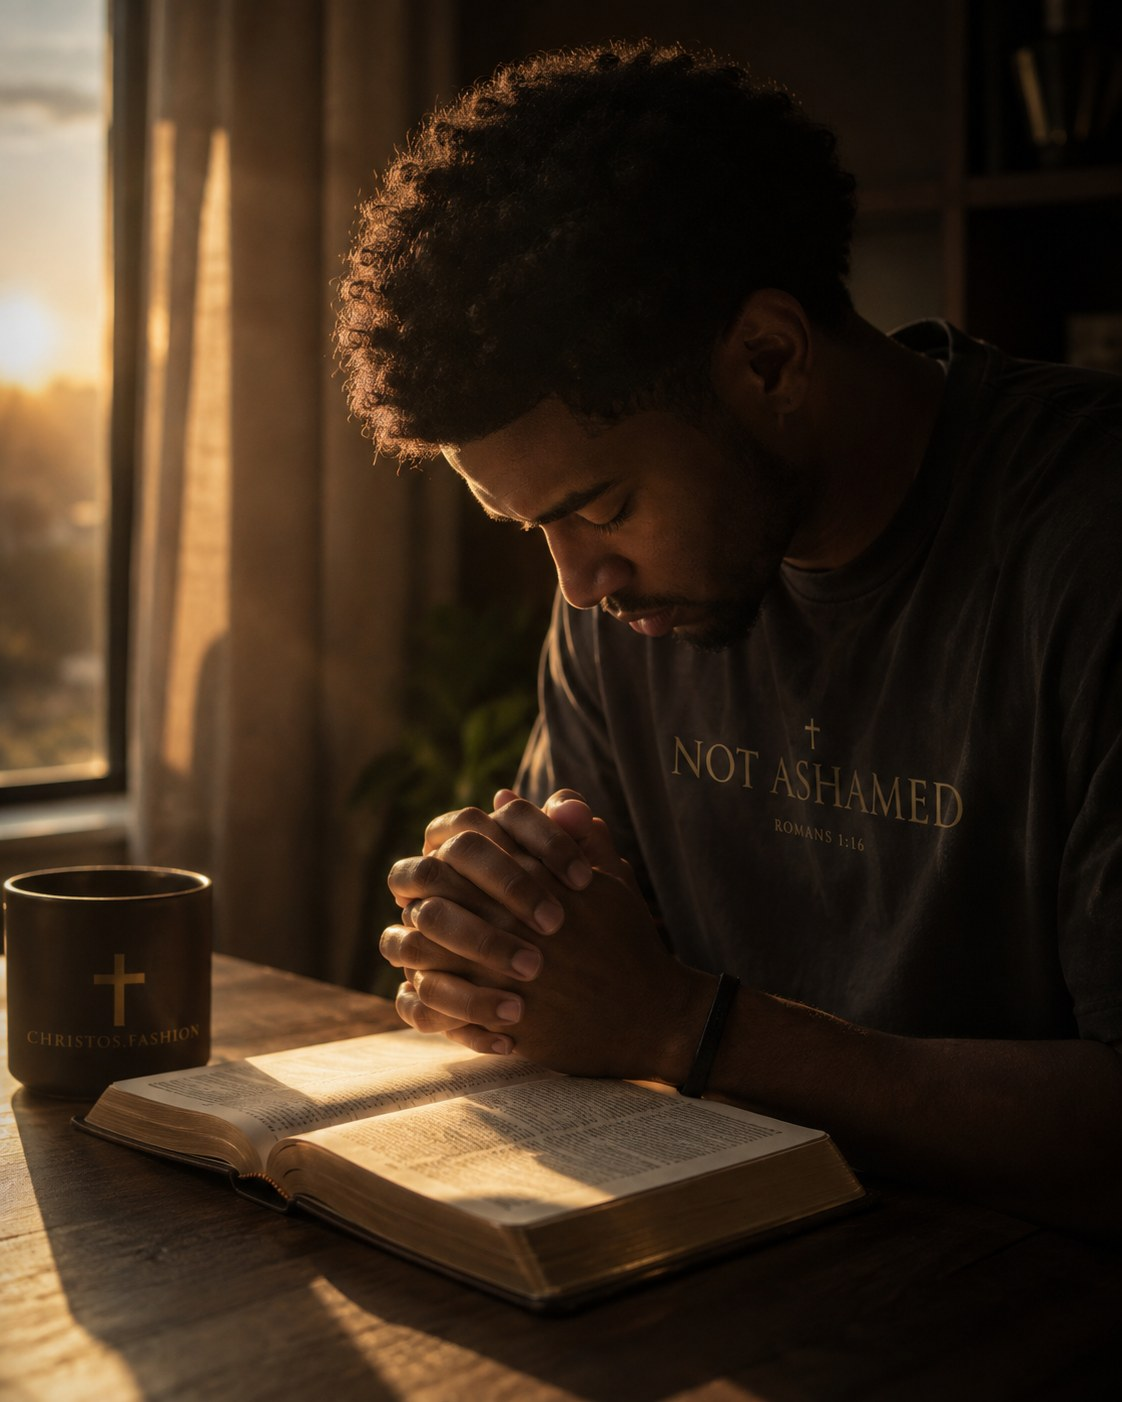
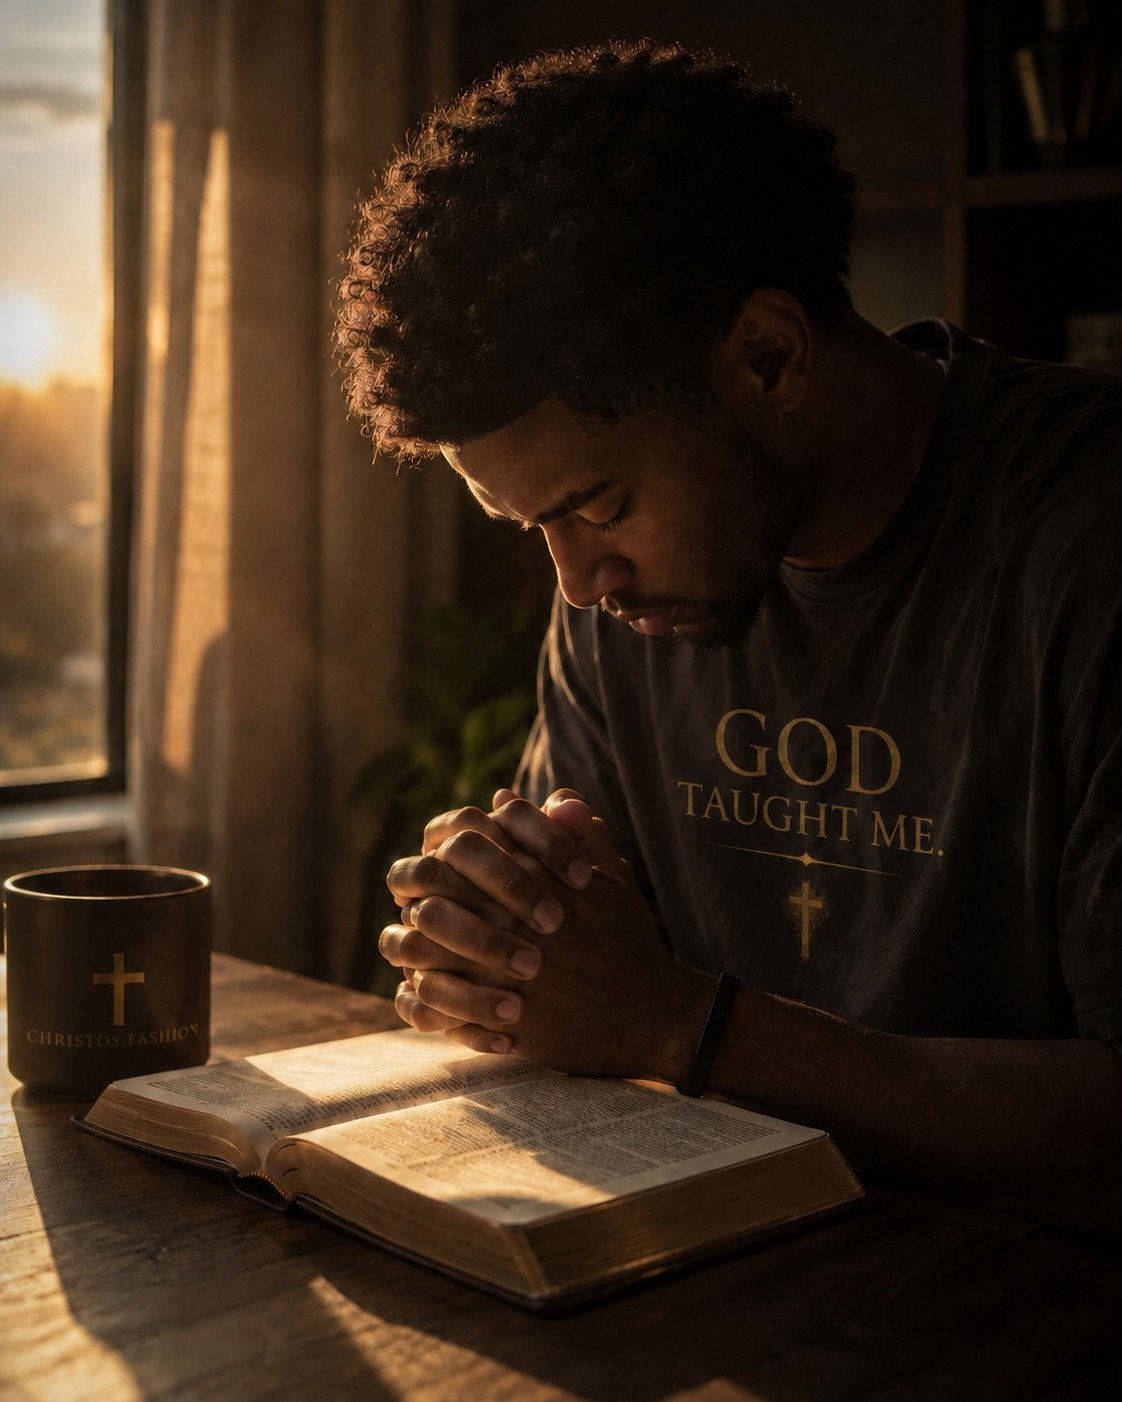
feat: integrate Christos product campaign lifestyle imagery

diff --git a/index.html b/index.html
@@ -158,32 +158,18 @@
             </div>
           </div>
 
-          <!-- PHOTO SLOTS — drop real files at these paths and they
-               replace the placeholders automatically. See
-               CHRISTOS-FASHION-2.0-REPORT.md for the full shot list. -->
+          <!-- CHRISTOS.FASHION PRODUCT CAMPAIGN PHOTOGRAPHY -->
           <div class="hero-collage reveal-scale" style="--reveal-delay:.2s">
             <figure class="photo-slot photo-slot-portrait photo-slot-primary photo-frame-gold parallax" data-parallax-range="26">
               <img src="assets/photos/hero-worship.jpg"
-                   alt="A believer with hands raised in worship, wearing a Christos.Fashion tee"
+                   alt="A believer wearing the Built by Faith shirt with hands raised at golden hour"
                    width="1200" height="1500" fetchpriority="high" decoding="async" />
-              <figcaption class="photo-slot-mark">
-                <svg viewBox="0 0 20 28" fill="currentColor" aria-hidden="true"><rect x="8" y="0" width="4" height="28"/><rect x="0" y="8" width="20" height="4"/></svg>
-                <span class="photo-slot-label">Hero · Primary</span>
-                <span class="photo-slot-hint">Hands raised in worship. Warm low light, natural grain, face partly out of frame — reverent, not posed.</span>
-                <span class="photo-slot-path">assets/photos/hero-worship.jpg · 4:5 · 1200×1500</span>
-              </figcaption>
             </figure>
 
             <figure class="photo-slot photo-slot-square photo-slot-secondary parallax" data-parallax-range="-34">
               <img src="assets/photos/hero-community.jpg"
-                   alt="Two friends in conversation, one wearing a Christos.Fashion shirt"
+                   alt="Two friends wearing Work Hard, God First and Faith Over Fear shirts sharing a conversation"
                    width="800" height="800" loading="lazy" decoding="async" />
-              <figcaption class="photo-slot-mark">
-                <svg viewBox="0 0 20 28" fill="currentColor" aria-hidden="true"><rect x="8" y="0" width="4" height="28"/><rect x="0" y="8" width="20" height="4"/></svg>
-                <span class="photo-slot-label">Hero · Community</span>
-                <span class="photo-slot-hint">Two people mid-conversation, one wearing a tee. Candid.</span>
-                <span class="photo-slot-path">assets/photos/hero-community.jpg · 1:1 · 800×800</span>
-              </figcaption>
             </figure>
           </div>
 
@@ -293,12 +279,6 @@
               <img src="assets/photos/chapter-conversation.jpg"
                    alt="Two believers in conversation at a coffee shop, one wearing a faith-based graphic tee"
                    width="1200" height="800" loading="lazy" decoding="async" />
-              <figcaption class="photo-slot-mark">
-                <svg viewBox="0 0 20 28" fill="currentColor" aria-hidden="true"><rect x="8" y="0" width="4" height="28"/><rect x="0" y="8" width="20" height="4"/></svg>
-                <span class="photo-slot-label">Chapter I · Conversation</span>
-                <span class="photo-slot-hint">Two people talking across a table, one in a Christos tee. Daylight, unstaged, mid-laugh.</span>
-                <span class="photo-slot-path">assets/photos/chapter-conversation.jpg · 3:2 · 1200×800</span>
-              </figcaption>
             </figure>
             <p class="photo-caption">Every shirt is a door someone else opens.</p>
           </div>
@@ -488,12 +468,6 @@
               <img src="assets/photos/chapter-prayer.jpg"
                    alt="A believer praying over an open Bible in morning light"
                    width="1000" height="1250" loading="lazy" decoding="async" />
-              <figcaption class="photo-slot-mark">
-                <svg viewBox="0 0 20 28" fill="currentColor" aria-hidden="true"><rect x="8" y="0" width="4" height="28"/><rect x="0" y="8" width="20" height="4"/></svg>
-                <span class="photo-slot-label">Chapter II · Quiet Morning</span>
-                <span class="photo-slot-hint">Hands folded over an open Bible, early light across the page. Stillness over drama.</span>
-                <span class="photo-slot-path">assets/photos/chapter-prayer.jpg · 4:5 · 1000×1250</span>
-              </figcaption>
             </figure>
           </div>
 
@@ -729,40 +703,19 @@
              submissions; the placeholder shows until you do. -->
         <div class="gallery-mosaic reveal">
           <figure class="photo-slot gallery-feature">
-            <img src="assets/photos/community-01.jpg" alt="A customer wearing a Christos.Fashion tee at a church gathering" width="800" height="800" loading="lazy" decoding="async" />
-            <figcaption class="photo-slot-mark">
-              <svg viewBox="0 0 20 28" fill="currentColor" aria-hidden="true"><rect x="8" y="0" width="4" height="28"/><rect x="0" y="8" width="20" height="4"/></svg>
-              <span class="photo-slot-label">Gallery · Feature</span>
-              <span class="photo-slot-path">assets/photos/community-01.jpg · 1:1</span>
-            </figcaption>
+            <img src="assets/photos/community-01.jpg" alt="A believer wearing the I Thought It Was Over, God Had Other Plans shirt at a faith gathering" width="800" height="800" loading="lazy" decoding="async" />
           </figure>
           <figure class="photo-slot">
-            <img src="assets/photos/community-02.jpg" alt="A customer wearing a Christos.Fashion hat outdoors" width="600" height="600" loading="lazy" decoding="async" />
-            <figcaption class="photo-slot-mark">
-              <svg viewBox="0 0 20 28" fill="currentColor" aria-hidden="true"><rect x="8" y="0" width="4" height="28"/><rect x="0" y="8" width="20" height="4"/></svg>
-              <span class="photo-slot-path">community-02.jpg</span>
-            </figcaption>
+            <img src="assets/photos/community-02.jpg" alt="A believer wearing the Jesus Saves hat and Built by Faith shirt outdoors at golden hour" width="600" height="600" loading="lazy" decoding="async" />
           </figure>
           <figure class="photo-slot">
-            <img src="assets/photos/community-03.jpg" alt="A family in Christos.Fashion apparel" width="600" height="600" loading="lazy" decoding="async" />
-            <figcaption class="photo-slot-mark">
-              <svg viewBox="0 0 20 28" fill="currentColor" aria-hidden="true"><rect x="8" y="0" width="4" height="28"/><rect x="0" y="8" width="20" height="4"/></svg>
-              <span class="photo-slot-path">community-03.jpg</span>
-            </figcaption>
+            <img src="assets/photos/community-03.jpg" alt="A family wearing Built by Faith, Work Hard God First, Pray Work Repeat, and Faith Over Fear apparel" width="600" height="600" loading="lazy" decoding="async" />
           </figure>
           <figure class="photo-slot">
-            <img src="assets/photos/community-04.jpg" alt="A believer serving in the community wearing Christos.Fashion" width="600" height="600" loading="lazy" decoding="async" />
-            <figcaption class="photo-slot-mark">
-              <svg viewBox="0 0 20 28" fill="currentColor" aria-hidden="true"><rect x="8" y="0" width="4" height="28"/><rect x="0" y="8" width="20" height="4"/></svg>
-              <span class="photo-slot-path">community-04.jpg</span>
-            </figcaption>
+            <img src="assets/photos/community-04.jpg" alt="A volunteer wearing the God Taught Me shirt serving a neighbor in the community" width="600" height="600" loading="lazy" decoding="async" />
           </figure>
           <figure class="photo-slot">
-            <img src="assets/photos/community-05.jpg" alt="Friends at a worship night in Christos.Fashion apparel" width="600" height="600" loading="lazy" decoding="async" />
-            <figcaption class="photo-slot-mark">
-              <svg viewBox="0 0 20 28" fill="currentColor" aria-hidden="true"><rect x="8" y="0" width="4" height="28"/><rect x="0" y="8" width="20" height="4"/></svg>
-              <span class="photo-slot-path">community-05.jpg</span>
-            </figcaption>
+            <img src="assets/photos/community-05.jpg" alt="Friends worshiping in Work Hard God First, Built by Faith, I Thought It Was Over, and Pray Work Repeat apparel" width="600" height="600" loading="lazy" decoding="async" />
           </figure>
         </div>
 

diff --git a/about.html b/about.html
@@ -96,14 +96,8 @@
           <div class="chapter-media reveal-left">
             <figure class="photo-slot photo-slot-portrait photo-frame-gold parallax" data-parallax-range="24">
               <img src="assets/photos/about-founder.jpg"
-                   alt="The founder of Christos.Fashion holding a freshly printed tee"
+                   alt="A Christos.Fashion creative reviewing Christ Over Culture and I Thought It Was Over apparel"
                    width="1000" height="1250" loading="lazy" decoding="async" />
-              <figcaption class="photo-slot-mark">
-                <svg viewBox="0 0 20 28" fill="currentColor" aria-hidden="true"><rect x="8" y="0" width="4" height="28"/><rect x="0" y="8" width="20" height="4"/></svg>
-                <span class="photo-slot-label">About · Founder</span>
-                <span class="photo-slot-hint">The person behind the brand, holding a finished piece. Honest and unpolished beats a studio portrait here.</span>
-                <span class="photo-slot-path">assets/photos/about-founder.jpg · 4:5 · 1000×1250</span>
-              </figcaption>
             </figure>
           </div>
 

diff --git a/CHRISTOS-FASHION-2.0-REPORT.md b/CHRISTOS-FASHION-2.0-REPORT.md
@@ -329,6 +329,27 @@ Integrations re-verified byte-identical after the swap: `cart.js`, `home-loader.
 
 ---
 
+## 8c. Product campaign imagery (6 Aug 2026)
+
+Second photo set — product-specific rather than generic lifestyle. Applied as a **merge, not a wholesale replace**, because the package was built from the repo state *before* the 8b fixes and would have rolled back three things:
+
+| File | Action | Reason |
+|---|---|---|
+| `index.html`, `about.html` | took package version | Better product-named alt text; placeholder `<figcaption>`s removed at source |
+| `assets/photos/*` (10) | took package version | New product campaign set |
+| `PRODUCT-CAMPAIGN-IMAGE-INTEGRATION.md`, `CLAUDE-DEPLOYMENT-INSTRUCTIONS.md` | added | Package notes |
+| `styles.css` | **kept repo version** | Package reverted the mobile gallery 1:1 crop fix back to 3:2 |
+| `script.js` | **kept repo version** | Package reverted the `.is-filled` load handler |
+| `CHRISTOS-FASHION-2.0-REPORT.md` | **kept repo version** | Package had the pre-8b copy of this report |
+
+The package solved the placeholder-caption problem a better way than 8b did — it deleted the `<figcaption>` blocks from the HTML entirely, rather than hiding them at runtime. The `.is-filled` handler is now defensive only; `is-empty` still suppresses a broken-image icon if a file ever goes missing, so it earns its place.
+
+Alt text is now product-specific throughout, e.g. *"A believer wearing the Built by Faith shirt with hands raised at golden hour"* — better for both screen readers and image search than the generic descriptions it replaced.
+
+Crop re-measured against the new files: every image matches its slot exactly, **0% crop loss on desktop and mobile**.
+
+---
+
 ## 9. What still needs you
 
 | # | Item | Why it matters |

diff --git a/PRODUCT-CAMPAIGN-IMAGE-INTEGRATION.md b/PRODUCT-CAMPAIGN-IMAGE-INTEGRATION.md
@@ -1,0 +1,29 @@
+# Christos.Fashion Product Campaign Image Integration
+
+All ten product-specific lifestyle campaign images are already implemented in the website HTML through the existing `assets/photos/` paths.
+
+## Image mapping
+
+| Website location | File | Featured product messaging |
+|---|---|---|
+| Hero primary | `assets/photos/hero-worship.jpg` | Built by Faith |
+| Hero secondary | `assets/photos/hero-community.jpg` | Work Hard, God First + Faith Over Fear |
+| Chapter I | `assets/photos/chapter-conversation.jpg` | Pray Work Repeat |
+| Chapter II | `assets/photos/chapter-prayer.jpg` | God Taught Me |
+| About page | `assets/photos/about-founder.jpg` | Christ Over Culture + I Thought It Was Over |
+| Community 01 | `assets/photos/community-01.jpg` | I Thought It Was Over, God Had Other Plans |
+| Community 02 | `assets/photos/community-02.jpg` | Jesus Saves hat + Built by Faith |
+| Community 03 | `assets/photos/community-03.jpg` | Built by Faith, Work Hard God First, Pray Work Repeat, Faith Over Fear |
+| Community 04 | `assets/photos/community-04.jpg` | God Taught Me |
+| Community 05 | `assets/photos/community-05.jpg` | Work Hard God First, Built by Faith, I Thought It Was Over, Pray Work Repeat |
+
+## HTML files updated
+
+- `index.html`
+- `about.html`
+
+The image `src` paths were already established by the 2.0 site architecture. The campaign files now occupy those exact paths, and the image alternative text has been updated to describe the actual products shown.
+
+## Deployment
+
+Deploy the contents of this folder to the existing Christos.Fashion GitHub repository without changing the image filenames or paths. Verify desktop and mobile crops after Netlify publishes the deployment.

diff --git a/CLAUDE-DEPLOYMENT-INSTRUCTIONS.md b/CLAUDE-DEPLOYMENT-INSTRUCTIONS.md
@@ -1,0 +1,16 @@
+# Deploy Christos.Fashion Product Campaign Update
+
+Use this folder as the newest production version of Christos.Fashion.
+
+1. Commit or back up the existing repository state.
+2. Copy the contents of this folder into the existing repository root.
+3. Preserve the current `.git` directory in the existing repository; this package intentionally does not include one.
+4. Do not rename or regenerate anything inside `assets/photos/`.
+5. Confirm `index.html` and `about.html` reference the included photo paths.
+6. Run JavaScript syntax checks and any existing project validation.
+7. Test the homepage and About page at desktop, tablet, and mobile widths.
+8. Confirm that all ten images load without placeholders or broken links.
+9. Preserve Stripe, Printify, Netlify functions, cart behavior, forms, legal pages, SEO, and analytics.
+10. Commit, push to the production branch, verify the Netlify deployment, and inspect the live site.
+
+Return the commit hash, deployment status, live URL, and the result of the ten-image verification.
